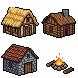
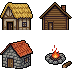
fix(cenario): vila em fachada frontal reta + proporções dos animais (pós-QA)
Veredito do mantenedor: vila isométrica não combina (o projeto é
front-view/top-down) e coelho/pássaro/sapo estavam desproporcionais
(o veado ficou bom).

- vila: folha REGENERADA com prompt de fachada frontal reta ('NO
  isometric perspective', preset Character & Props) — 3 casas 33×28 →
  66×56 mundo (≈1,3× o herói); ID novo 65f61f50 em spritecook-assets
  (a isométrica ced61759 vai para geracoes_substituidas)
- prepara-cenario: FRAG_MIN 12 → 50 (a lenha solta da fogueira, n=44,
  precisa fundir; menor peça real = folhagem n=93) + NOVO campo
  'altos' (altura-alvo proporcional por peça, nearest, paralelo ao
  'pega') → animais: pássaro 14×13 · coelho 14×16 · sapo 13×11 ·
  veado mantido 36×42 — arte NÃO regenerada, só redimensionada
- fumaca 20b: asserção de proporção (veado ≥30px · demais ≤18px)
- previa-assets: linha dos animais (faltava) + log completo

Gate: node testes/todos.js verde (5 arquivos).

diff --git a/testes/prepara-cenario.js b/testes/prepara-cenario.js
@@ -1,7 +1,7 @@
 // Prepara os assets de CENÁRIO gerados no SpriteCook (spec mundos-vivos):
 // fatia as grades por alfa CONECTADO — fusão só de fragmentos minúsculos
-// (<12 px, ex.: chamas soltas da fogueira entram na peça dona) — recorta
-// no bbox e grava as peças individuais em assets/cenario/.
+// (<50 px: chamas soltas e a lenha da fogueira entram na peça dona) —
+// recorta no bbox e grava as peças individuais em assets/.
 //
 // Sem redução: a folhagem nasce no tamanho nativo (12-22px, densidade do
 // herói) e as casas são desenhadas ×ESC_CENARIO=2 no jogo (como a árvore
@@ -20,7 +20,9 @@ const FONTE = path.join(RAIZ, 'assets', 'fonte');
 const BASE = path.join(RAIZ, 'assets');
 const final = !process.argv.includes('--sem-final');
 
-const FRAG_MIN = 12;   // componente <12 px é fragmento: funde com o vizinho
+const FRAG_MIN = 50;   // componente <50 px é fragmento: funde com o
+                       // vizinho (sparks da fogueira n=2-3, lenha solta
+                       // n=44 — a peça real mínima é a folhagem com n=93)
 const VIZ_MIN = 8;     // raio de fusão (gap de bbox) do fragmento com a dona
 
 function faixa(prefixo, n) {
@@ -50,9 +52,12 @@ const FONTES = [
   { dir: 'npcs', arq: 'npcs-sheet.png', nomes: faixa('npc-', 25) },
   // animais: a grade vem 4 linhas × 4 perspectivas (lateral/frente/
   // costas) — leva a lateral de cada espécie (índices 0,4,8,12) p/ o
-  // jogo; o resto fica na folha-fonte (arquivo)
+  // jogo; o resto fica na folha-fonte (arquivo). `altos` = altura-alvo
+  // por peça (QA do mantenedor: veado mantido, os outros ≈1/3 do
+  // herói de 43px)
   { dir: 'animais', arq: 'animais-sheet.png',
-    pega: [0, 4, 8, 12], nomes: faixa('animal-', 4) },
+    pega: [0, 4, 8, 12], altos: [null, 13, 16, 11],
+    nomes: faixa('animal-', 4) },
   // ícones de skill (R-MV-6): ordem final = posição na Skills.LISTA
   // (guerreiro 0-7 · mago 8-15 · ladino 16-23 · clérigo 24-31). O
   // modelo desenha na ORDEM DELE (nem respeita 4×2), então `pega`
@@ -202,6 +207,25 @@ function quadrado(img, lado) {
   return { w: lado, h: lado, px: px2, al: al2 };
 }
 
+// altura-alvo proporcional (nearest) — ajusta PROPORÇÃO sem regenerar
+// a arte (QA do mantenedor: coelho/pássaro/sapo ≈1/3 do herói)
+function redimensionaAltura(img, alt) {
+  const w = Math.max(1, Math.round(img.w * alt / img.h));
+  const px = Buffer.alloc(w * alt * 3), al = Buffer.alloc(w * alt, 0);
+  for (let y = 0; y < alt; y++) {
+    const sy = Math.min(img.h - 1, Math.floor(y * img.h / alt));
+    for (let x = 0; x < w; x++) {
+      const sx = Math.min(img.w - 1, Math.floor(x * img.w / w));
+      const s = sy * img.w + sx, d = y * w + x;
+      px[d * 3] = img.px[s * 3];
+      px[d * 3 + 1] = img.px[s * 3 + 1];
+      px[d * 3 + 2] = img.px[s * 3 + 2];
+      al[d] = img.al[s];
+    }
+  }
+  return { w: w, h: alt, px: px, al: al };
+}
+
 // --------------------------------------------------------------- montagem
 const relatorio = {};
 const pecas = [];   // {nome, img} p/ QA
@@ -228,7 +252,9 @@ FONTES.forEach(function (fonte) {
   alvo.forEach(function (fi, k) {
     const f = frags[fi];
     const cru = recorta(sheet, f);
-    const img = fonte.quadro ? quadrado(cru, fonte.quadro) : cru;
+    let img = fonte.quadro ? quadrado(cru, fonte.quadro) : cru;
+    const alt = fonte.altos ? fonte.altos[k] : null;
+    if (alt) img = redimensionaAltura(img, alt);
     const nome = fonte.nomes[k];
     relatorio[fonte.arq].push({ nome: nome, tam: img.w + 'x' + img.h,
       px: f.n });

diff --git a/testes/fumaca.js b/testes/fumaca.js
@@ -1551,6 +1551,16 @@ console.log('20b) vidas do mundo: NPCs na vila e animais (mundos-vivos)');
   conf(amb.animais >= 1 && amb.animais <= 12,
     'animais em cena (' + amb.animais + ' · teto 12)');
 
+  // --- proporções (QA do mantenedor: animais desproporcionais vs o
+  // herói de 43px — veado ficou bom, os outros ≈1/3)
+  const alts = [0, 1, 2, 3].map(i => {
+    const im = sandbox.Assets.cena('animal', i);
+    return im ? im.height : -1;
+  });
+  conf(alts[0] >= 30 && alts.slice(1).every(a => a > 0 && a <= 18),
+    'proporções dos animais: veado ' + alts[0] + 'px mantido · ' +
+    'pássaro/coelho/sapo ' + alts.slice(1).join('/') + 'px (≤18)');
+
   // --- determinismo: mesmo mapa = as mesmas vidas (semente = nº do mapa)
   // — captura no estado FRESCO (sem frame desde o restaurar)
   const vidas0 = JSON.stringify(amb);

diff --git a/testes/previa-assets.js b/testes/previa-assets.js
@@ -52,7 +52,8 @@ const LINHAS_CEN = [
   faixa('folhagem-verde', 9),
   faixa('folhagem-frio', 9),
   faixa('folhagem-quente', 9),
-  [['casa', 0], ['casa', 1], ['casa', 2], ['fogueira', 0]]
+  [['casa', 0], ['casa', 1], ['casa', 2], ['fogueira', 0]],
+  [['animal', 0], ['animal', 1], ['animal', 2], ['animal', 3]]
 ];
 // ícones de skill: 4 linhas na ordem da Skills.LISTA (8 por classe)
 for (let c = 0; c < 4; c++) {
@@ -134,4 +135,5 @@ const saida = path.join(__dirname, 'previa-assets.png');
 escreverPNG(saida, W, H, folha);
 console.log('gerado: ' + saida + ' (' + W + 'x' + H + ')');
 console.log('linhas: ' + CLASSES.join(', ') + ' × ' + ANIMS.join('/') +
-  ' — 8 frames cada · cenário: 3 paletas × 9 + vila 4 + ícones 32');
+  ' — 8 frames cada · cenário: 3 paletas × 9 + vila 4 + animais 4 + ' +
+  'ícones 32');
